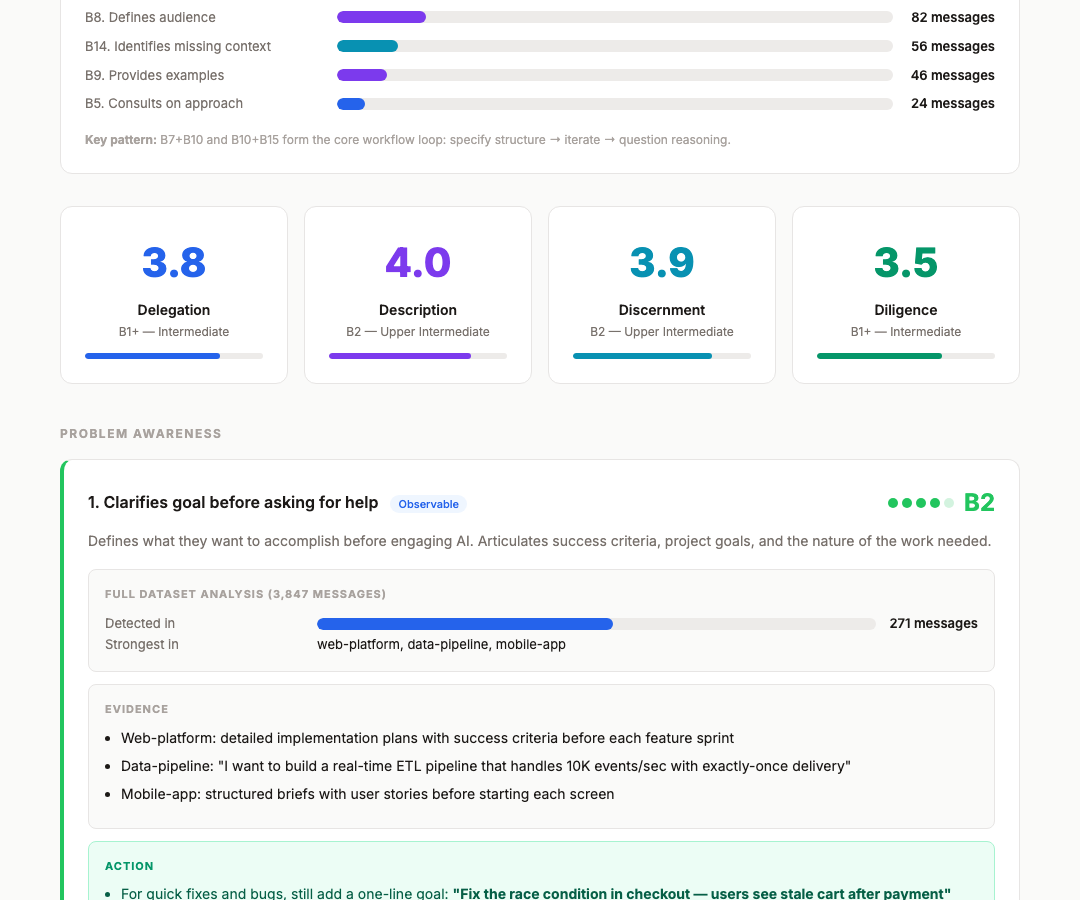
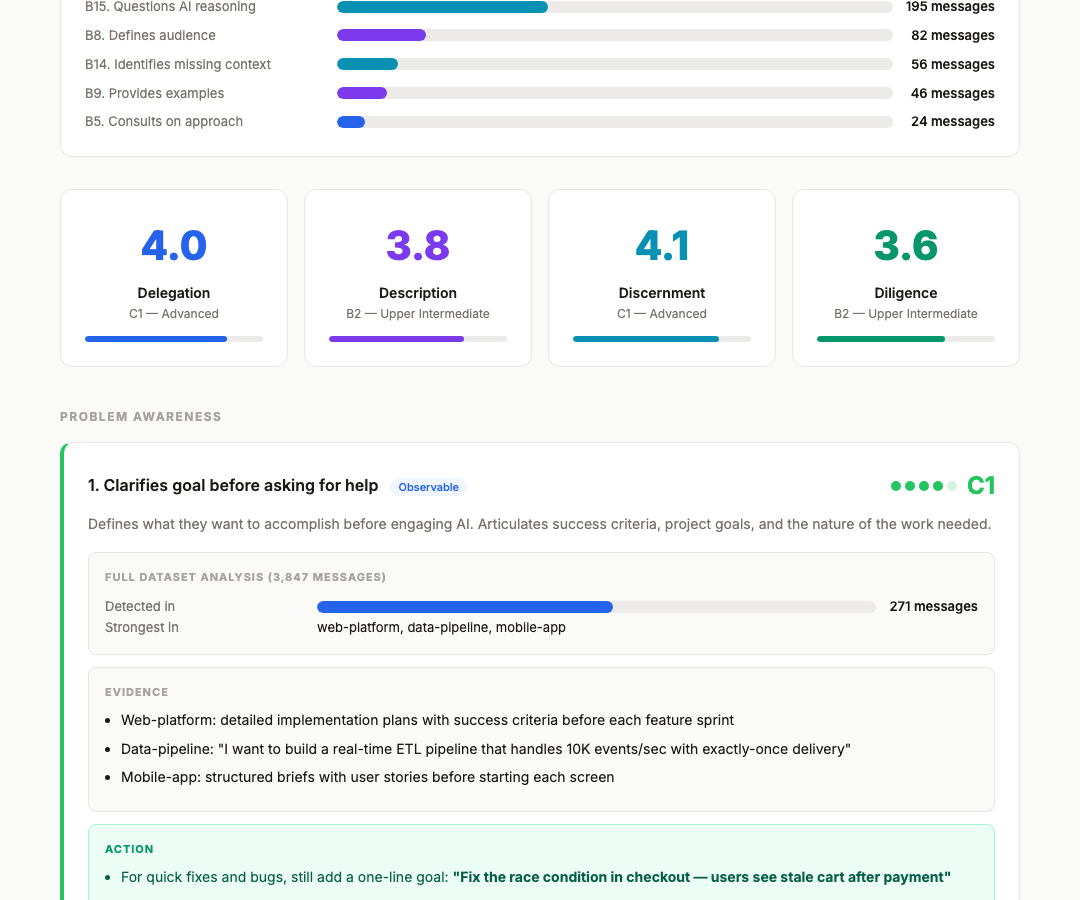
Update mock screenshots and scoring guide for custom CEFR ranges
Remap CEFR scale: 0-0.99 A1, 1-1.99 A2, 2-2.99 B1, 3-3.89 B2,
3.9-4.49 C1, 4.5-5.0 C2. Regenerate anonymized screenshots with
C1 overall score and updated scale bar.

diff --git a/src/ai_fluency/report.py b/src/ai_fluency/report.py
@@ -105,12 +105,13 @@ def generate_report(
     lines.append("")
     lines.append("### Scoring Guide")
     lines.append("")
-    lines.append("For each behavior, assess on a 1-5 scale aligned with CEFR language levels:")
-    lines.append("- **1 - A1 Breakthrough**: No evidence of this behavior")
-    lines.append("- **2 - A2 Elementary**: Occasional or inconsistent evidence")
-    lines.append("- **3 - B1 Intermediate**: Regular evidence but room for improvement")
-    lines.append("- **4 - B2 Upper Intermediate**: Consistent, effective demonstration")
-    lines.append("- **5 - C1 Advanced**: Sophisticated, nuanced mastery")
+    lines.append("For each behavior, assess on a 0-5 scale aligned with CEFR language levels:")
+    lines.append("- **0-0.9 — A1 Breakthrough**: No evidence of this behavior")
+    lines.append("- **1-1.9 — A2 Elementary**: Occasional or inconsistent evidence")
+    lines.append("- **2-2.9 — B1 Intermediate**: Regular evidence but room for improvement")
+    lines.append("- **3-3.89 — B2 Upper Intermediate**: Consistent evidence, some gaps")
+    lines.append("- **3.9-4.49 — C1 Advanced**: Consistent, effective demonstration")
+    lines.append("- **4.5-5.0 — C2 Mastery**: Sophisticated, nuanced mastery")
     lines.append("")
 
     # --- Evidence by behavior ---
